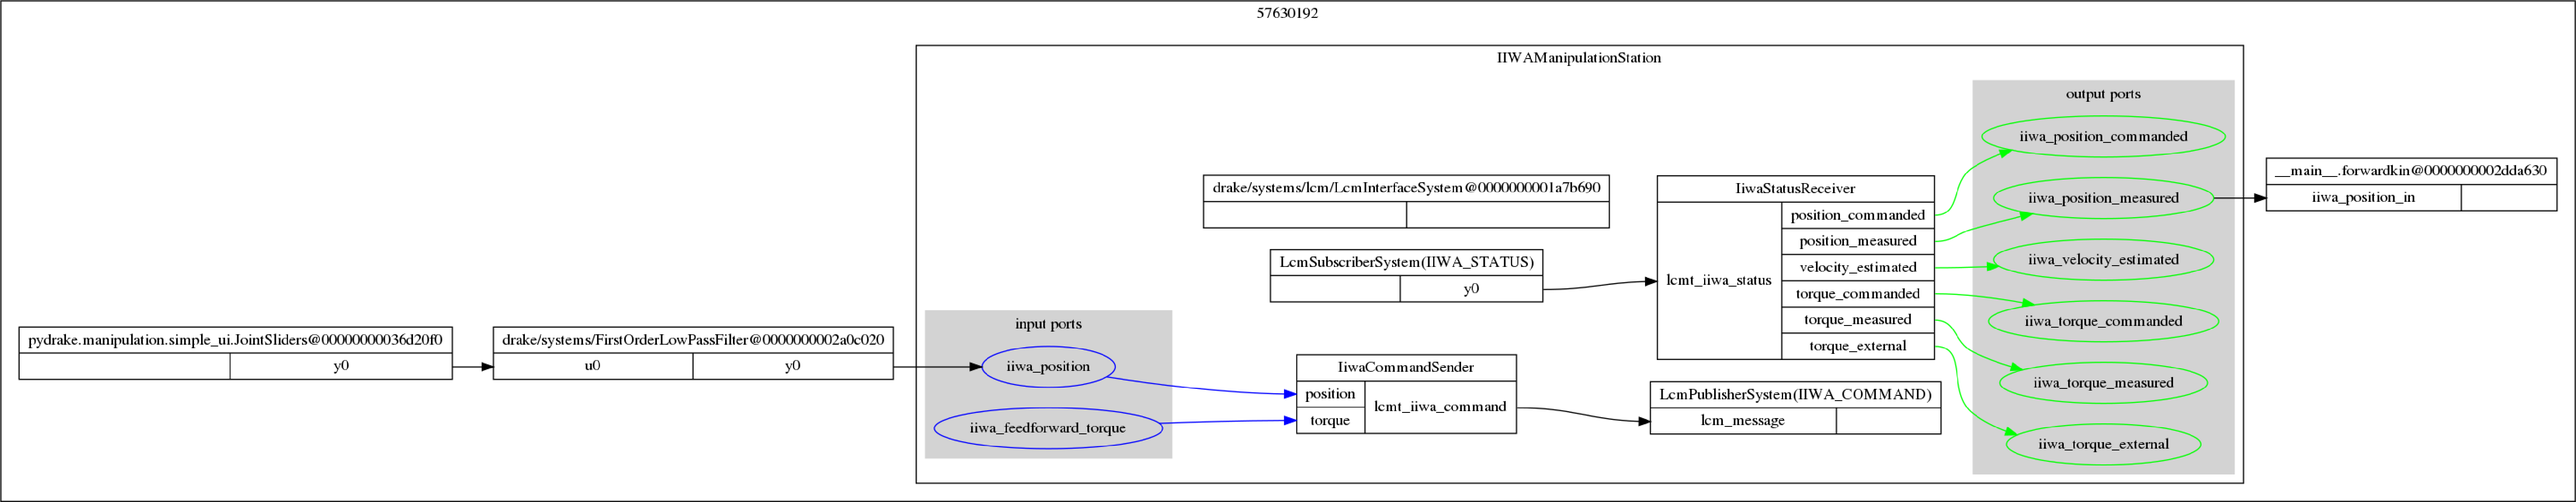
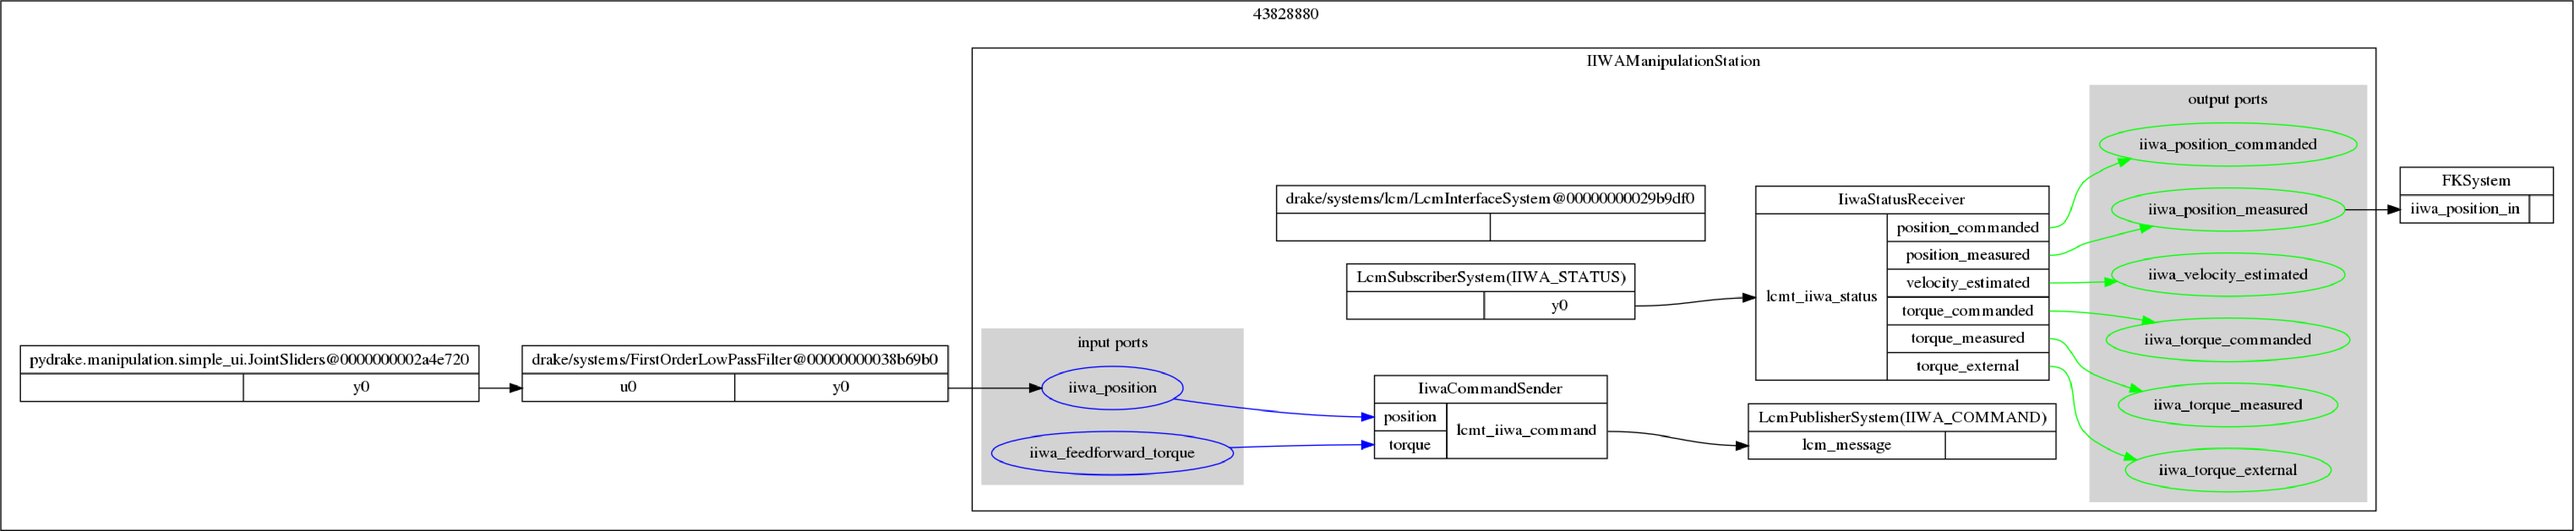
velocity estimate

diff --git a/README.md b/README.md
@@ -131,6 +131,8 @@ By default, ```kuka_driver``` publishes/ subscribes these messages at 200Hz
 In order to add a custom robot interface, we have to first create message type definitions specific to the robot configuration. This would involve the status message to get feedback from the robot and the  command message to issue control commands to the robot.
 
 Once we have defined the custom message types, we have to create a driver, which will communicate with the robot hardware(such as through serial port/ethernet etc) and exchange the data with the LCM system as LCM messages
+### **Plotting LCM Messages**
+
 ## **Drake**
 ### Some drake tutorials
 - slider system print
@@ -175,6 +177,8 @@ Similar to the IIWA example, systems that parse the LCM message and provide inpu
 
 ## **Manipulation Station**
 The manipulation station system brings together the hardware interface systems, multibodyencapsulates ```IiwaCommandSender``` and ```IiwaStatusReceiver``` subsystems that interface
+
+Exported inputs and outputs
 ### **IIWA Manipulation station**
 ### **Custom Manipulation station**
 ## **Joint Control**
@@ -202,23 +206,44 @@ In the example, we use a simple one finger defined in [```models/one_finger.urdf
 
 [```example_FK.py```](https://github.com/achuwilson/pydrake_iiwa/blob/main/example_FK.py) 
 
-Given the joint angles of the robot, we can set the corresponding joint position of the multibodyplant and then estimate the position of the end effector in the world/with respect to any other frame. The ```EvalBodyPoseInWorld``` function can be used to evaluate the position of the body in the world. Dake solves the kinematics automatically in the background. The example is available in [```example_FK.py```](https://github.com/achuwilson/pydrake_iiwa/blob/main/example_FK.py) 
+Forward Kinematics calculates the position of end effector/gripper in the world given the joint position values.
 
 ![](images/fk_system.png)
+
+In this example, the low pass filtered values from the slider is used to set the joint positions of the IIWA hardware. The ```iiwa_position_measured``` output port of the manipulation station is connected to the ```FKSystem```, where the joint values of the multibodyplant are updated. The ```EvalBodyPoseInWorld``` function can be used to evaluate the position of the body in the world. 
+
 
 ## **Inverse Kinematics**
 [```example_IK.py```](https://github.com/achuwilson/pydrake_iiwa/blob/main/example_IK.py) 
 
-Drake has a rich [Inverse kinematics](https://drake.mit.edu/doxygen_cxx/classdrake_1_1multibody_1_1_inverse_kinematics.html) library, based on numerical optimization. It also allows for addition of various types of constraints
+Inverse Kinematics solves for the joint positions required to reach a particular end-effector pose.
+
+Drake has a numeric [InverseKinematics](https://drake.mit.edu/doxygen_cxx/classdrake_1_1multibody_1_1_inverse_kinematics.html) solver which  formulates IK as a nonlinear optimization problem. We can specify non linear inequality constraints like minimum distance between bodies, position/orientation constraints, target gaze constraints etc.
+Refer to [MIT 6.881 Lecture 15, Motion Planning, Part 1](https://www.youtube.com/watch?v=RjKkA_6-0C4) for more insights on Inverse kinematics and declaring constraints. Corresponding [IPython Notebook](https://github.com/RussTedrake/manipulation/blob/master/trajectories.ipynb)
+
+Drake also has a [Differential Inverse Kinematics solver](https://drake.mit.edu/doxygen_cxx/namespacedrake_1_1manipulation_1_1planner.html), which calculates joint velocities using Jacobians and integrates it to calculate the joint position. The [```example_IK.py```](https://github.com/achuwilson/pydrake_iiwa/blob/main/example_IK.py) uses the differential IK method implemented in [```differential_ik.py```](https://github.com/RobotLocomotion/drake/blob/master/examples/manipulation_station/differential_ik.py)
+
+The system diagram of the [```example_IK.py```](https://github.com/achuwilson/pydrake_iiwa/blob/main/example_IK.py) is as follows:
+![](images/ik_system.png)
+
 
 ##  **Estimating Cartesian Velocities**
 [```example_velocity_estimate.py```](https://github.com/achuwilson/pydrake_iiwa/blob/main/example_velocity_estimate.py)
 
-The cartesian velocities are estimated using the ```CalcJacobianSpatialVelocity``` method. It is then multiplied with the joint velocities to get the end effector velocity
+End effector velocities can be estimated by multiplying the robot Jacobian with joint velocities. Drake ```MultibodyPlant``` has the ```CalcJacobianSpatialVelocity``` method, which could be used to calculate the Spatial Jacobian. 
+
+The system diagram of the example is as follows:
+![](images/vel_est_system.png)
+
+In [```example_velocity_estimate.py```](https://github.com/achuwilson/pydrake_iiwa/blob/main/example_velocity_estimate.py), The output of ```EndEffectorTeleop``` is used to control the cartesian end effector position through the ```DifferentialIK``` system. The ```iiwa_velocity_estimated``` and ```iiwa_position_measured``` outputs of the manipulation station are used by the  ```velocityEstimator``` system to calculate the Jacobian and corresponding  end effector velocities.
 
 ## **Cartesian velocity control**
 [```example_velocity_control.py```](https://github.com/achuwilson/pydrake_iiwa/blob/main/example_velocity_control.py)
 
+Joint velocities required to move the end effector at a desired velocity in cartesian space can be computed using an inverse Jacobian controller. 
+
+The system diagram is as follows:
+ 
 A ```PseudoInverseVelocityController``` is implemented, which calculates the joint velocities from the desired end effector velocities and commands them
 
 ## **Estimating Cartesian forces**
